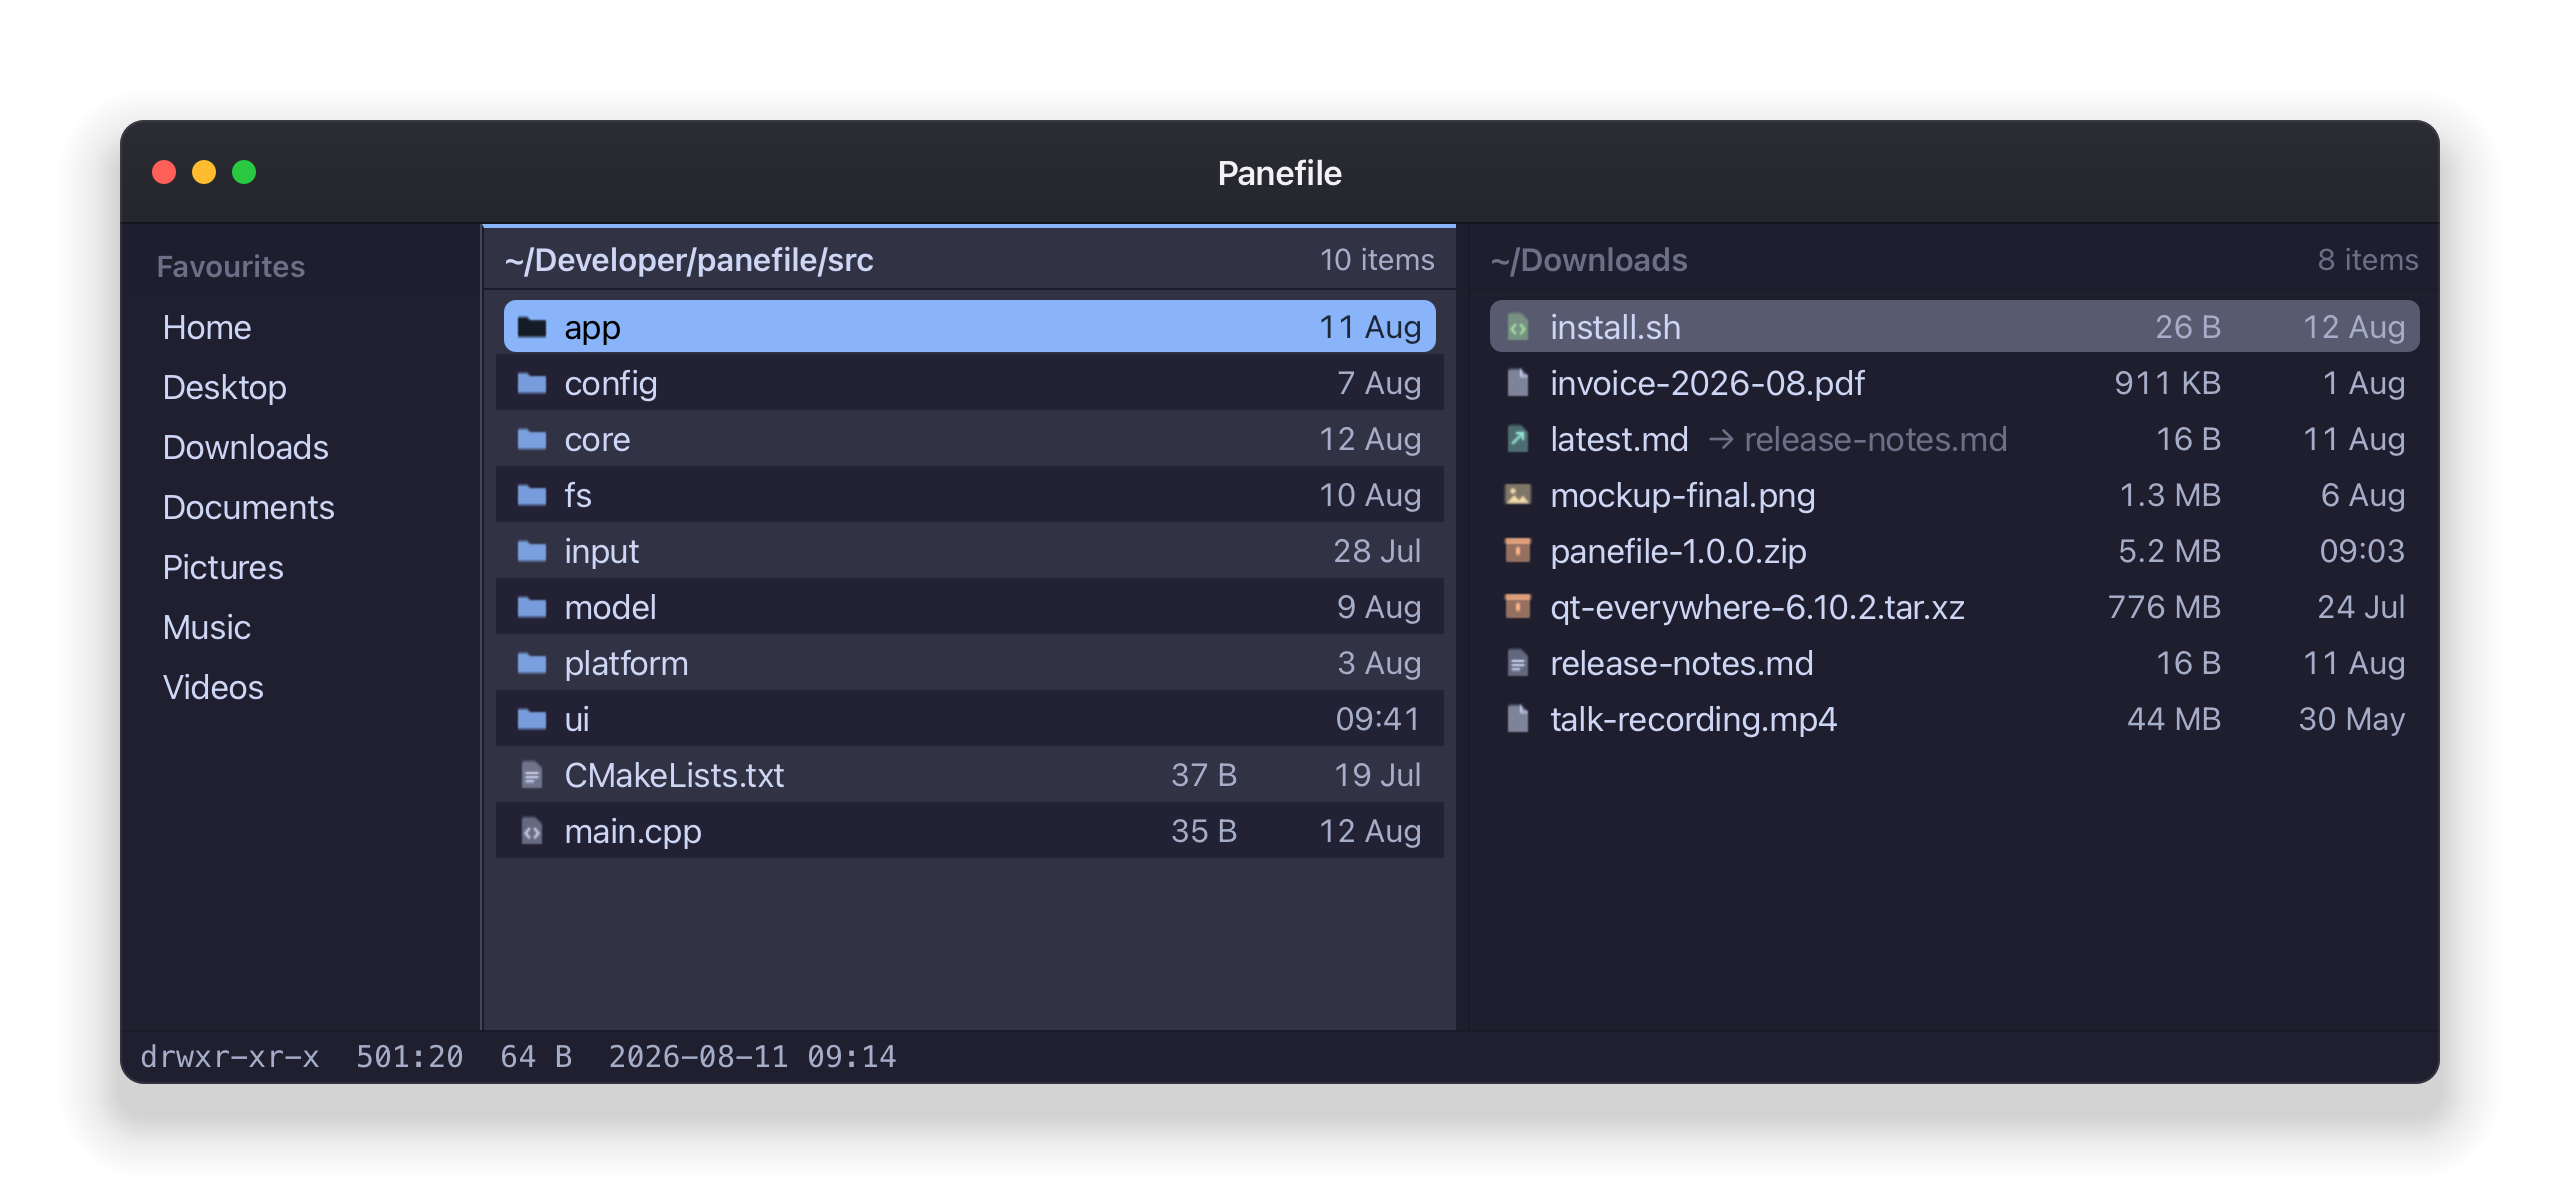
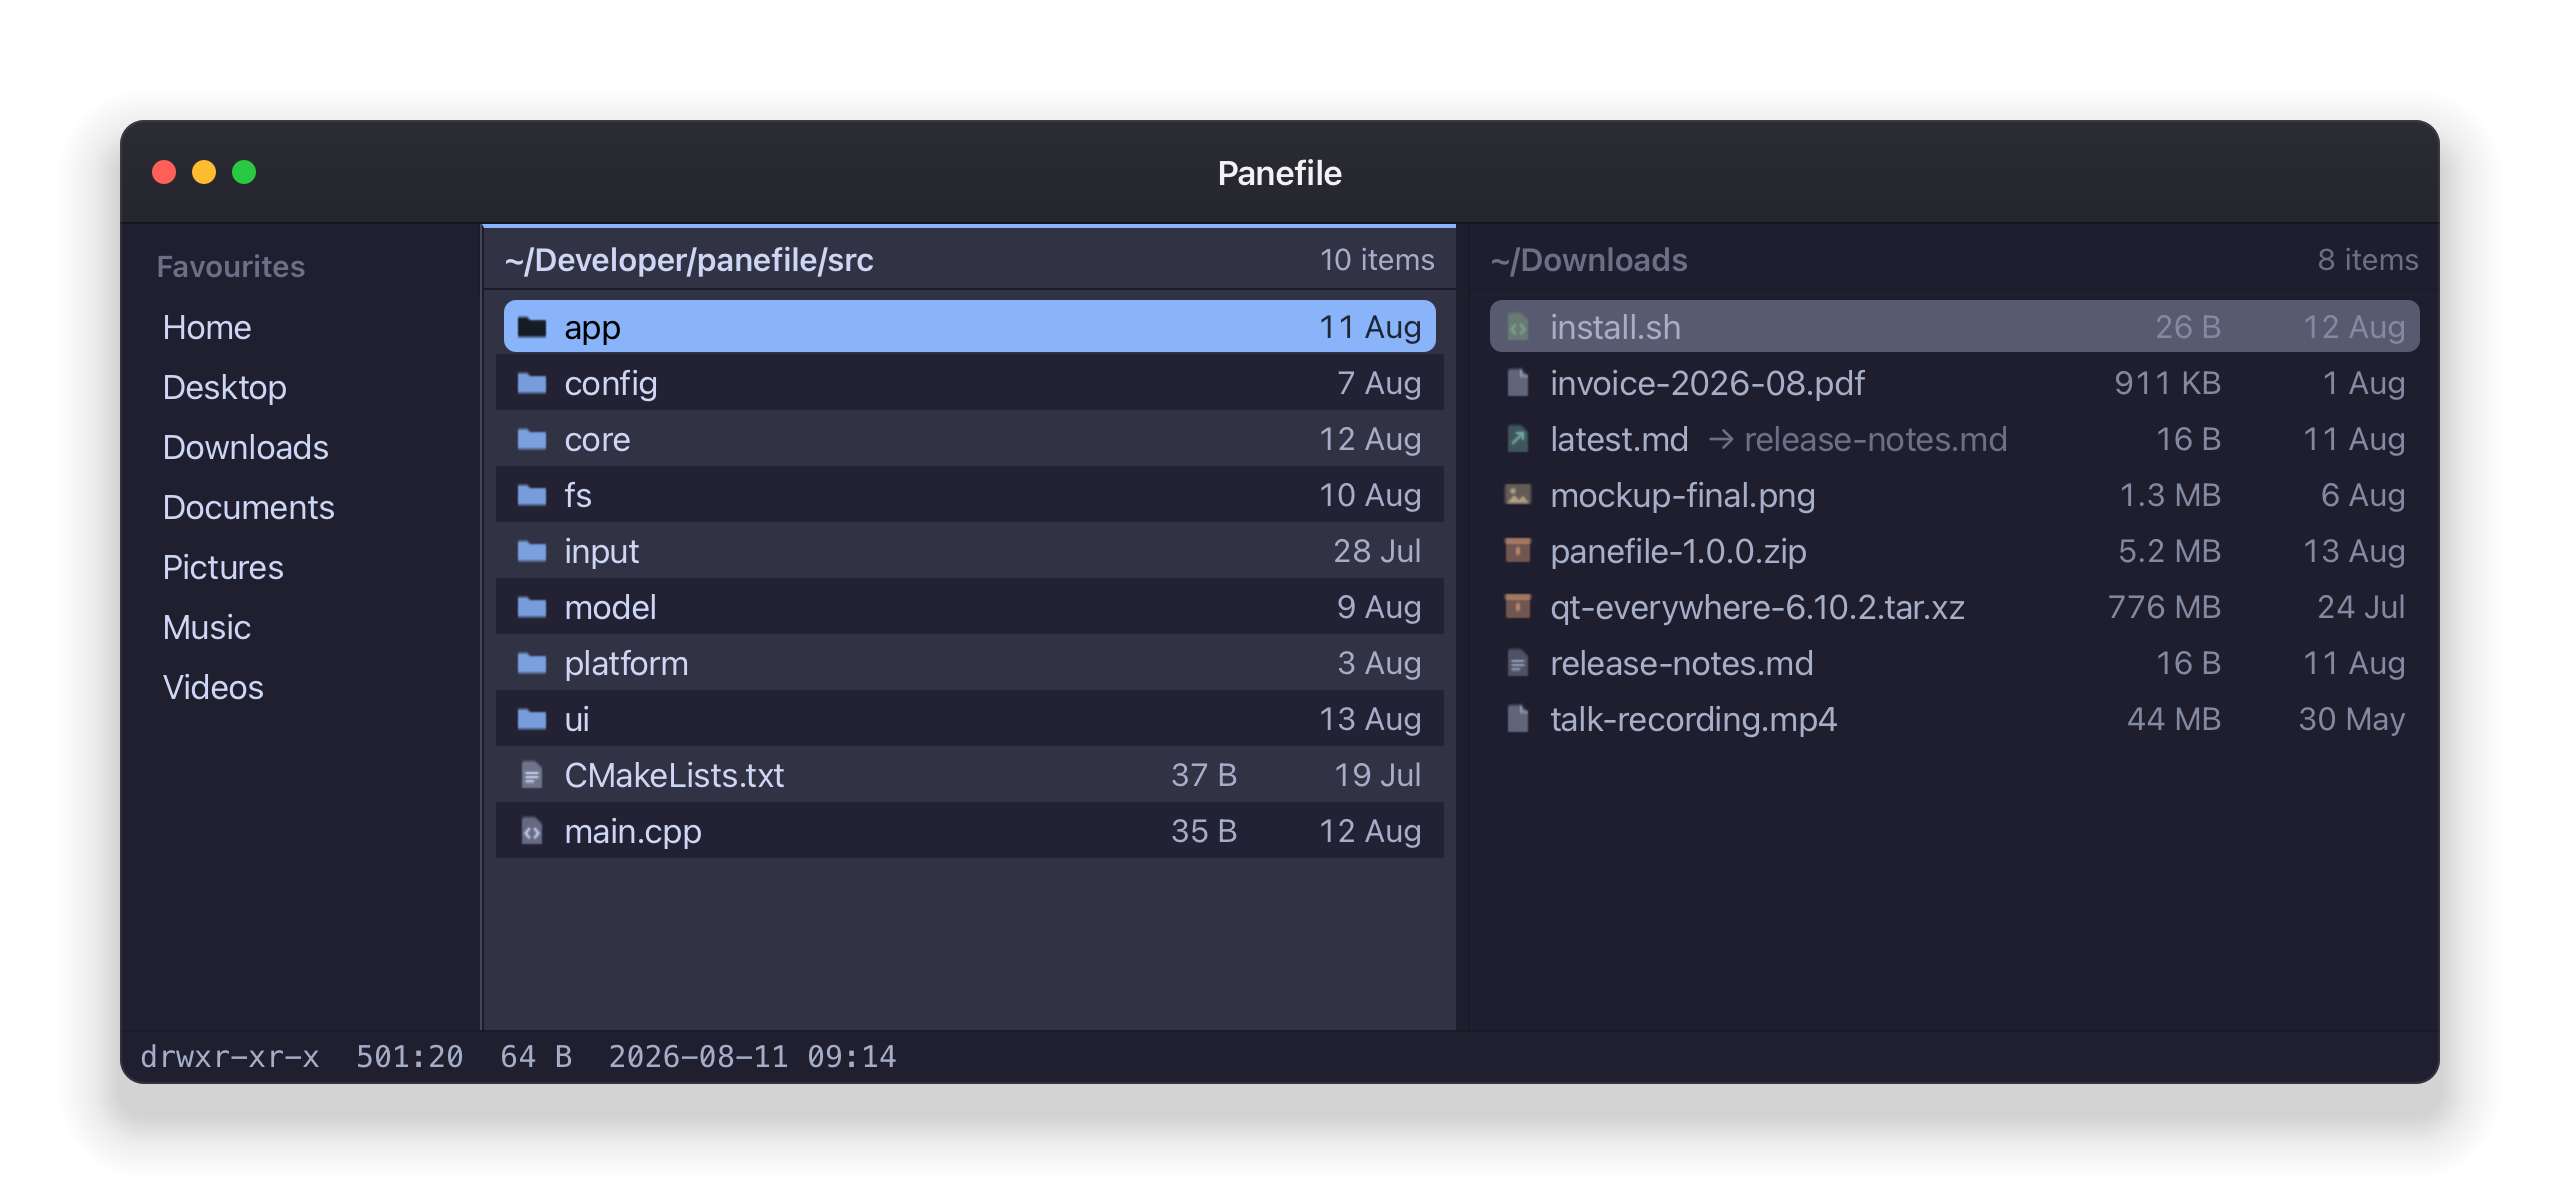
Refresh the site screenshots, and tell it about Settings
The screenshots now show the polished application inside its macOS frame:
decimal sizes, one date format, an unfocused pane a step quieter than the
focused one, and no half-row sliced off the bottom.

The Quickstart mentions that `,` opens Settings, and that it writes to the same
files you can edit by hand — neither way is the real one, which is the whole
design of it.

diff --git a/docs/site/index.html b/docs/site/index.html
@@ -147,6 +147,13 @@
       out of whatever you are in &mdash; a preview, a filter, selection mode
       &mdash; and never quits.
     </p>
+
+    <p class="aside">
+      <kbd>,</kbd> opens Settings, where the themes below can be picked from a
+      list rather than typed into a file. It writes to the same
+      <code>config.toml</code> and <code>theme.toml</code> you can edit by hand,
+      comments and all &mdash; neither way is the &ldquo;real&rdquo; one.
+    </p>
   </div>
 </section>
 
